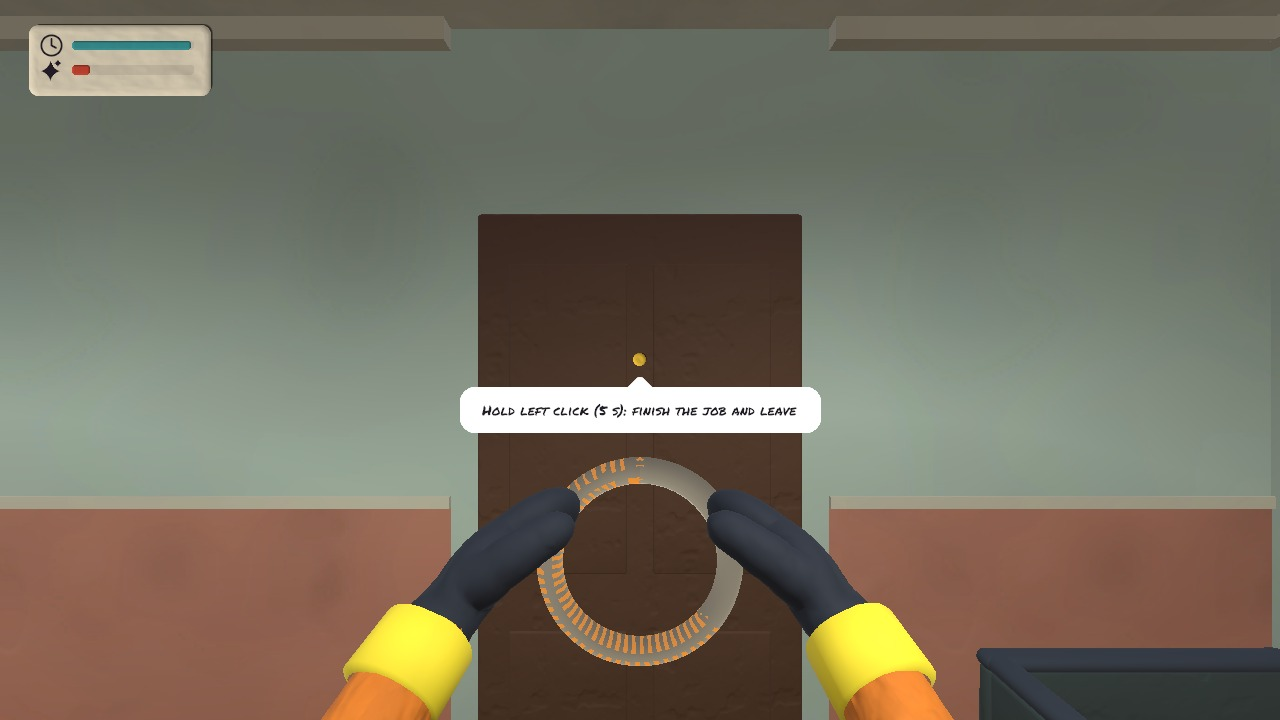
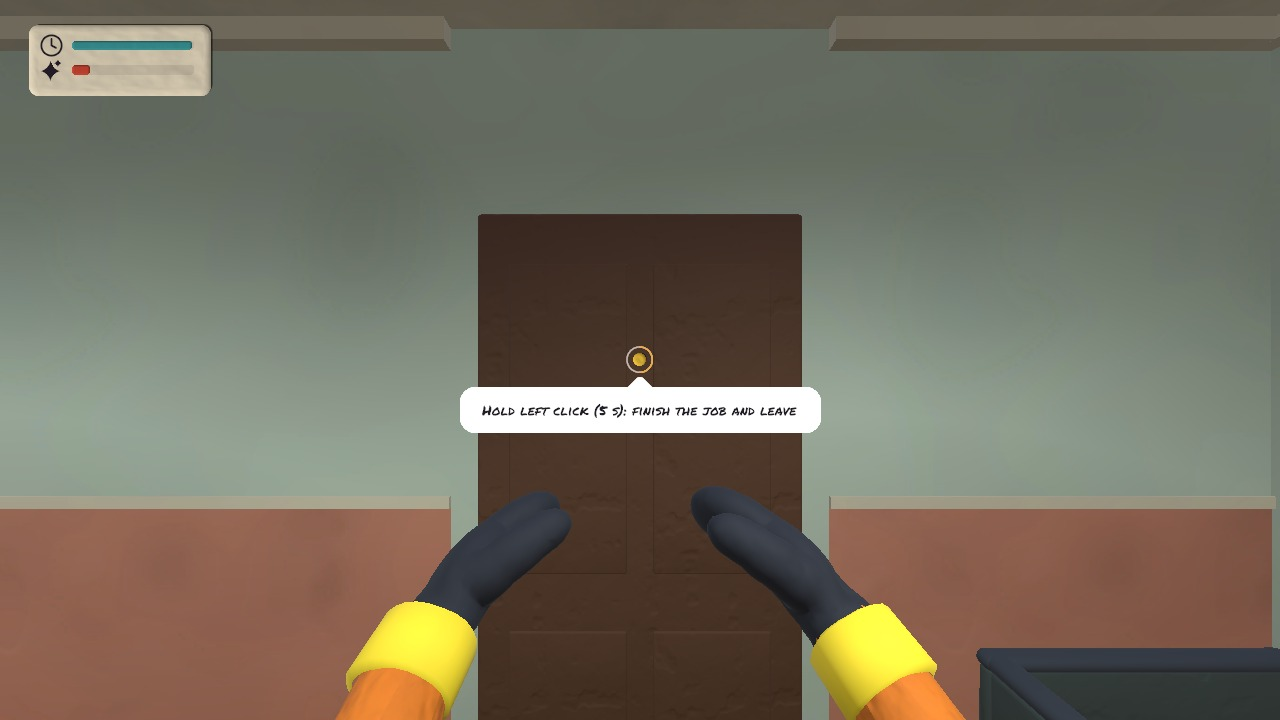
README: door hold is a thin green-to-red ring round the crosshair; new screenshot

diff --git a/README.md b/README.md
@@ -63,7 +63,7 @@ This repository only holds playable builds. Download the latest zip from the [Re
 - **Grab** things with a stretchy clay rope, throw them, and bonk trash off your crew.
 - The chaos is part of the game: washer knockback, wet floors that make you slip, the hose tripping you, clay flops, banana peels, dragging a crewmate by the rope and even **binning them**.
 - At the end of the job the crew is lined up for the **owner's inspection**: one of ten mean owners walks every room, then slaps a random player if the house is below the pass mark, and hands over the cash.
-- A **front door** you hold for 5 seconds to finish the job: a clay ring fills on the door and the whole crew sees it. It swings open for the owner, with a blinding white light outside, and an invoice that blames players for broken items.
+- A **front door** you hold for 5 seconds to finish the job: a thin ring round your crosshair fills from green to red while you hold. It swings open for the owner, with a blinding white light outside, and an invoice that blames players for broken items.
 - A **job-complete screen** with your star rating, how clean the house is, the pay split into icon lines (base, time, broken, rare, modifiers, style) and a picture frame for each crew member with their helmet, name and award. Hold Tab for the long text (invoice, level, daily best, owner review).
 
 ### Co-op
